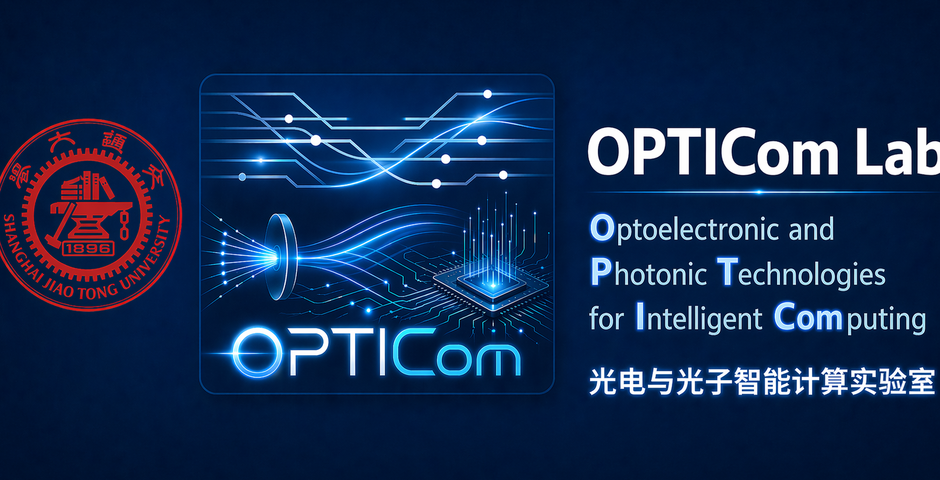
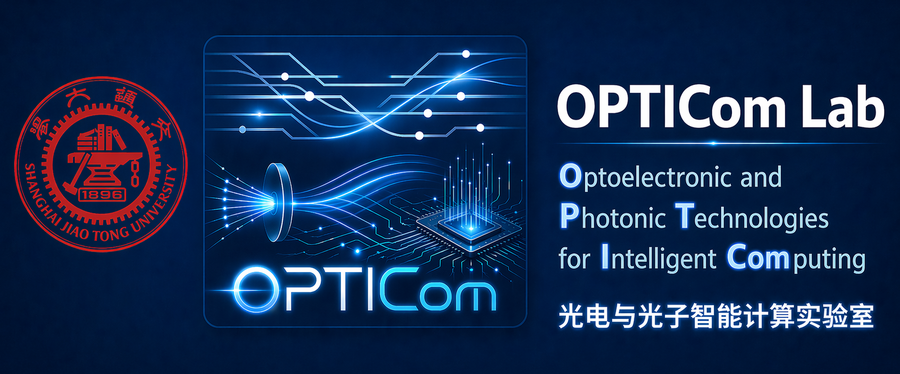
Refine hero brand strip crop and spacing
The homepage Hero brand strip now uses a less aggressive horizontal crop and a tighter vertical crop so both sides remain visible while the image sits more comfortably in the Hero. The brand strip is also clickable back to the homepage, and the welcome copy spacing is tightened so the text does not leave excessive gaps or get clipped.

Constraint: Keep the user's chosen logo draft and mobile text fallback intact
Rejected: Expand the Hero height to fit the oversized strip | resizing and cropping the strip preserves the page rhythm better
Confidence: high
Scope-risk: narrow
Reversibility: clean
Directive: When replacing hero_brand_strip.png, verify both left seal and right text are fully visible before committing
Tested: UTF-8 checks; python -m py_compile app.py; JSON validation; git diff --check; desktop/mobile Hero screenshots

diff --git a/static/css/style.css b/static/css/style.css
@@ -517,15 +517,20 @@ input[type="email"]:focus {
 }
 
 .portal-hero-brand-visual {
-  margin: 0 0 14px;
-  max-width: 100%;
+  margin: 0 0 12px;
+  max-width: min(100%, 540px);
+}
+
+.portal-hero-brand-link {
+  display: block;
+  text-decoration: none;
 }
 
 .portal-hero-brand-image {
   display: block;
-  width: min(100%, 760px);
+  width: 100%;
   height: auto;
-  border-radius: 24px;
+  border-radius: 22px;
   box-shadow: 0 18px 38px rgba(16, 32, 54, 0.18);
 }
 
@@ -605,7 +610,7 @@ input[type="email"]:focus {
 }
 
 .portal-hero-subtitle {
-  margin: 0 0 14px;
+  margin: 0 0 10px;
   text-align: left;
   color: rgba(255, 255, 255, 0.92);
   font-size: 1.08rem;
@@ -629,8 +634,8 @@ input[type="email"]:focus {
   max-width: 520px;
   text-align: left;
   color: rgba(245, 249, 255, 0.86);
-  font-size: 0.98rem;
-  line-height: 1.65;
+  font-size: 0.95rem;
+  line-height: 1.52;
   white-space: pre-line;
 }
 

diff --git a/templates/index.html b/templates/index.html
@@ -8,11 +8,13 @@
         {% set hero_lab_short = lang_value(site_cfg, 'lab_name_short') %}
         {% set hero_brand_filename = site_cfg.get('hero_brand_filename', 'hero_brand_strip.png') %}
         <div class="portal-hero-brand-visual" aria-label="OPTICom Lab brand visual">
-          <img
-            src="{{ url_for('asset_site_image', filename=hero_brand_filename) }}"
-            alt="OPTICom Lab brand visual"
-            class="portal-hero-brand-image"
-          >
+          <a href="{{ url_for('index') }}" class="portal-hero-brand-link">
+            <img
+              src="{{ url_for('asset_site_image', filename=hero_brand_filename) }}"
+              alt="OPTICom Lab brand visual"
+              class="portal-hero-brand-image"
+            >
+          </a>
         </div>
         <div class="portal-hero-brand-fallback">
           <h2 class="portal-hero-title">
